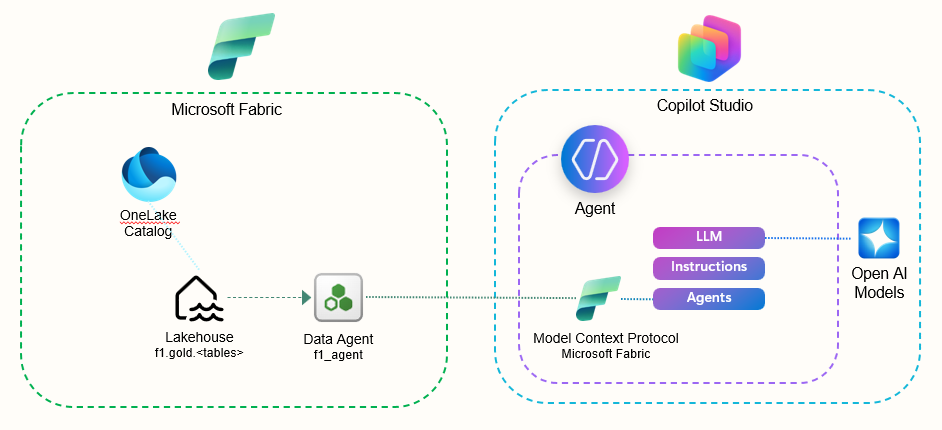
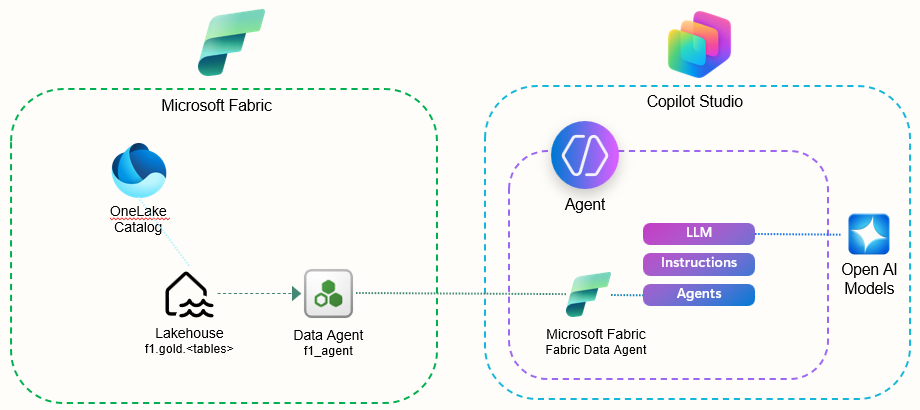
updated README and sample architectures

diff --git a/README.md b/README.md
@@ -49,12 +49,11 @@ For this repo, I created the following items in my F1 lakehouse.  The notebooks 
 ## AI Foundry and Copilot Studio using the Fabric Data Agent
 You can also integrate this Fabric Data Agent with both AI Foundry and Copilot Studio.  For more on this topic check out the following articles:
 - [Fabric Data Agents + Microsoft Copilot Studio: A New Era of Multi-Agent Orchestration (Preview)](https://blog.fabric.microsoft.com/en-US/blog/fabric-data-agents-microsoft-copilot-studio-a-new-era-of-multi-agent-orchestration/)
-- {}() <br>
+- [Empowering agentic AI by integrating Fabric with Azure AI Foundry](https://blog.fabric.microsoft.com/en-us/blog/empowering-agentic-ai-by-integrating-fabric-with-azure-ai-foundry/) 
+
 ### Sample Architecture - Fabric Data Agents - Copilot Studio
-![](img/fabric-copilotstudio.png)
+![Microsoft Fabric - Copilot Studio](img/fabric-copilotstudio.png)
 
-### Sample Architecture - Fabric Data Agents - New AI Foundry
-![Azure Databricks - AI Foundry](img/dbx-aifoundry.png)
+### Sample Architecture - Fabric Data Agents - AI Foundry (New Experience)
+![Microsoft Fabric - AI Foundry](img/fabric-aifoundry.png)
 
-### Sample Architecture - Fabric Data Agents - Legacy AI Foundry  
-![Azure Databricks - Legacy AI Foundry via Visual Studio Code](img/dbx-aifoundrylegacy.png)
